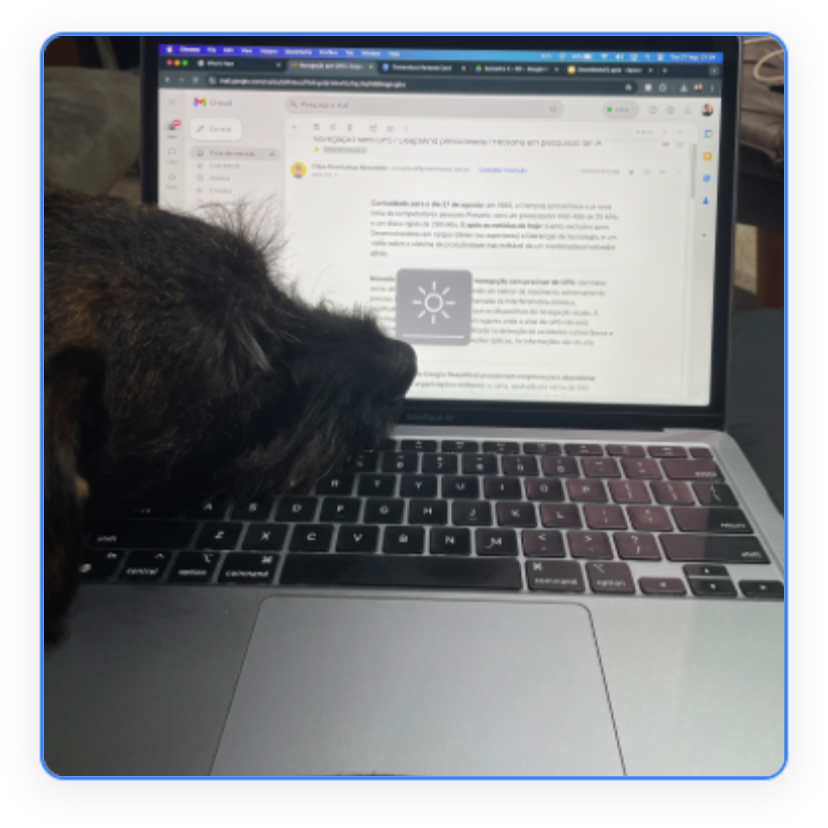
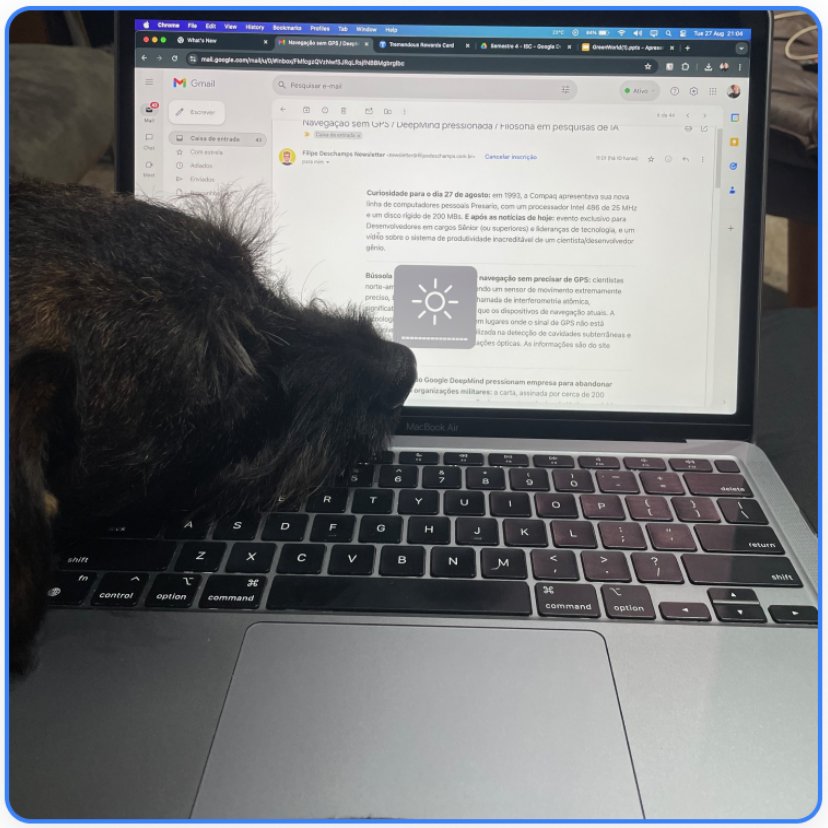
refactor: Replace bad images to good & Use api field to company images [NOID]

diff --git a/src/app/home/components/work/jobs.tsx b/src/app/home/components/work/jobs.tsx
@@ -10,7 +10,6 @@ import { getJobs, IJobContent } from "@/requests/get";
 import { useQuery } from "@tanstack/react-query";
 
 import { StacksPng, StackKey } from "./stacks";
-import Job0 from "../../../../assets/images/work/job0.jpg";
 import { LanguagesSupported } from "../../../../../config/i18n/languages-config";
 import Tooltip from "@/components/tooltip";
 
@@ -116,9 +115,12 @@ const Jobs: React.FC = () => {
       <div className="job__infomation">
         <div className="job__image">
           <Image
-            src={Job0}
+            src={jobContent.companyImageUrl}
+            unoptimized
             alt={`image_about_company_${jobContent.companyName}`}
             className="job__photo"
+            width={1200}
+            height={1200}
           />
         </div>
         <div className="job__information__content">

diff --git a/src/requests/get/index.ts b/src/requests/get/index.ts
@@ -5,6 +5,7 @@ const API_URL = "https://api.takedi.com/api";
 export interface IJobContent {
   title: string;
   companyName: string;
+  companyImageUrl: string;
   content: {
     en: string;
     pt: string;
